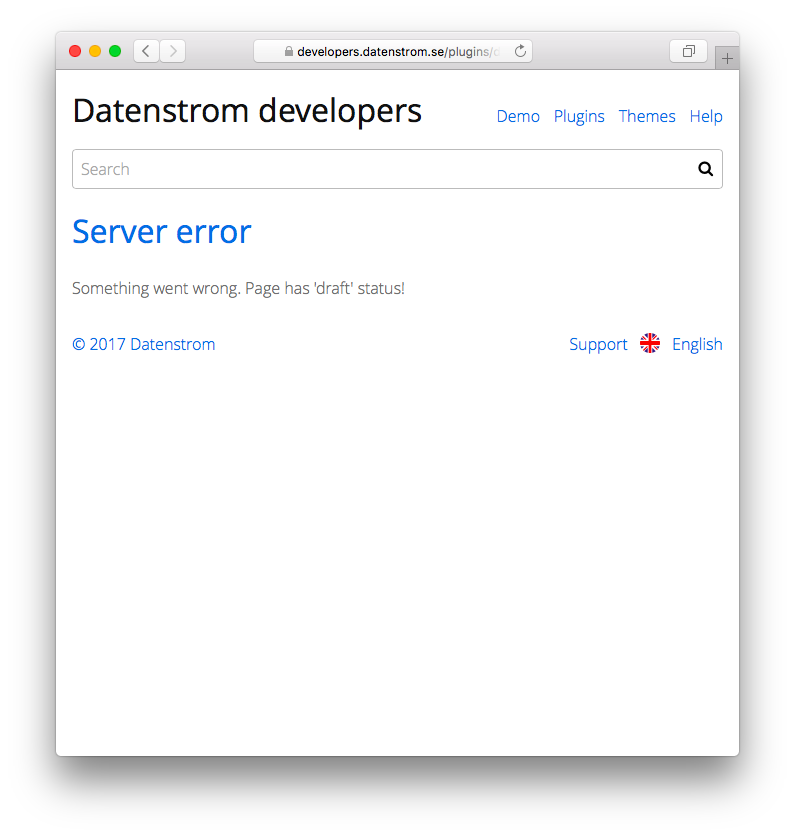
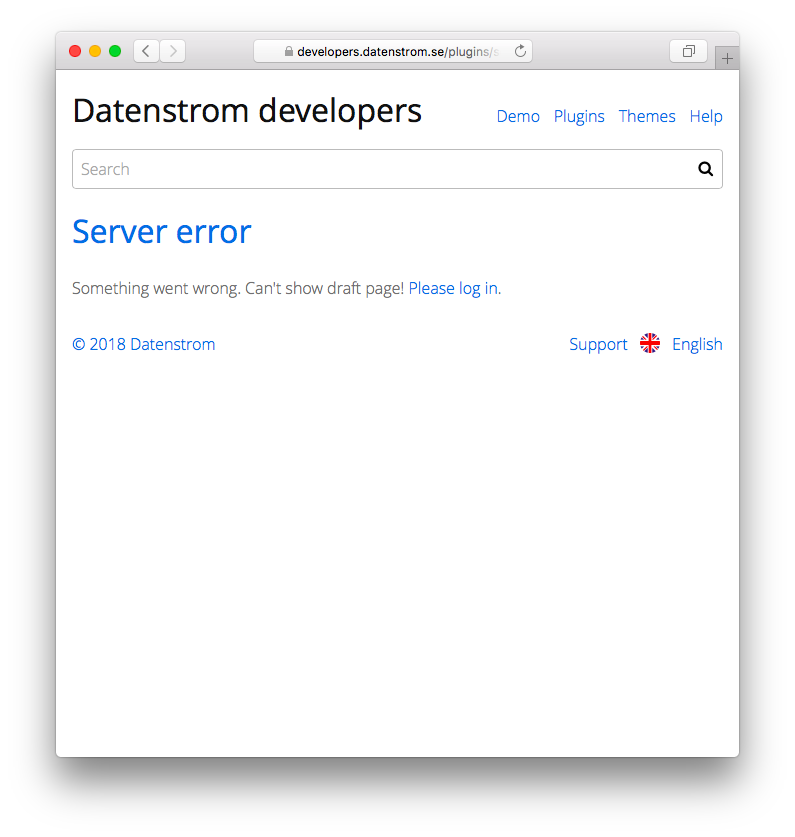
Update draft, link to edit draft page

diff --git a/draft/draft.php b/draft/draft.php
@@ -1,11 +1,11 @@
 <?php
 // Draft plugin, https://github.com/datenstrom/yellow-plugins/tree/master/draft
-// Copyright (c) 2013-2017 Datenstrom, https://datenstrom.se
+// Copyright (c) 2013-2018 Datenstrom, https://datenstrom.se
 // This file may be used and distributed under the terms of the public license.
 
 class YellowDraft
 {
-	const VERSION = "0.6.1";
+	const VERSION = "0.7.1";
 	var $yellow;			//access to API
 	
 	// Handle initialisation
@@ -26,7 +26,12 @@ class YellowDraft
 	{
 		if($this->yellow->page->get("status")=="draft" && $this->yellow->getRequestHandler()=="core")
 		{
-			$this->yellow->page->error($this->yellow->config->get("draftStatusCode"), "Page has 'draft' status!");
+			$pageError = "Can't show draft page!";
+			if($this->yellow->plugins->isExisting("edit"))
+			{
+				$pageError .= " <a href=\"".$this->yellow->page->get("pageEdit")."\">Please log in</a>.";
+			}
+			$this->yellow->page->error($this->yellow->config->get("draftStatusCode"), $pageError);
 		}
 	}
 }

diff --git a/draft/README.md b/draft/README.md
@@ -1,4 +1,4 @@
-Draft plugin 0.6.1
+Draft plugin 0.7.1
 ==================
 Support for draft pages.
 
@@ -14,7 +14,7 @@ To uninstall delete the [plugin files](update.ini).
 
 ## How to make a draft page?
 
-Set `Status: draft` in the settings at the top of a page. The page will no longer be public accessible. You can continue to edit a draft in a browser and the file system.
+Set `Status: draft` in the settings at the top of a page. The page will no longer be public visible. You can continue to edit a draft page in the web browser and the file system.
 
 ## Example
 
